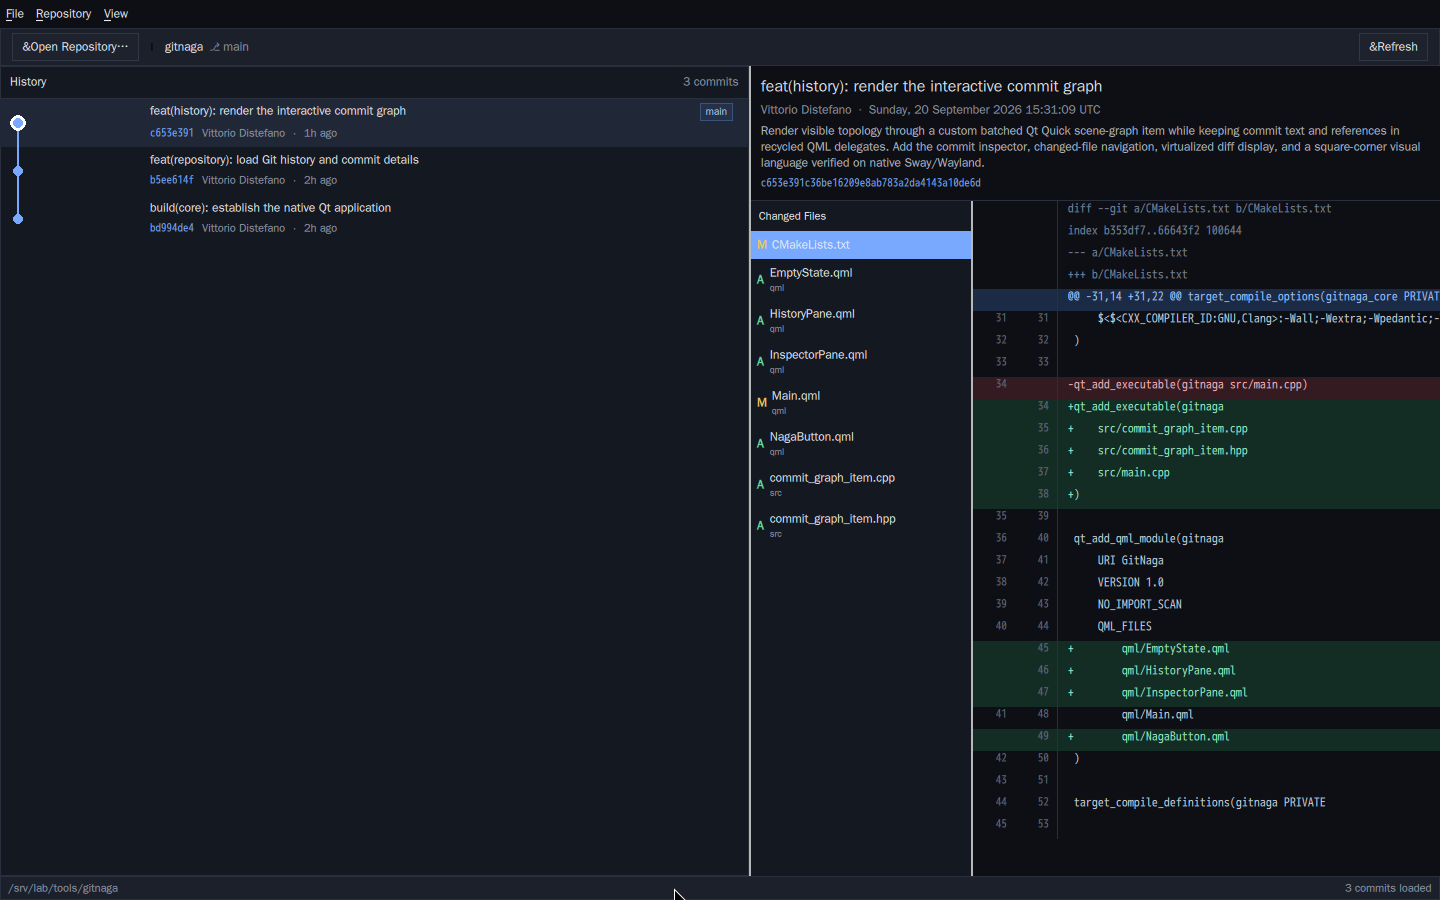
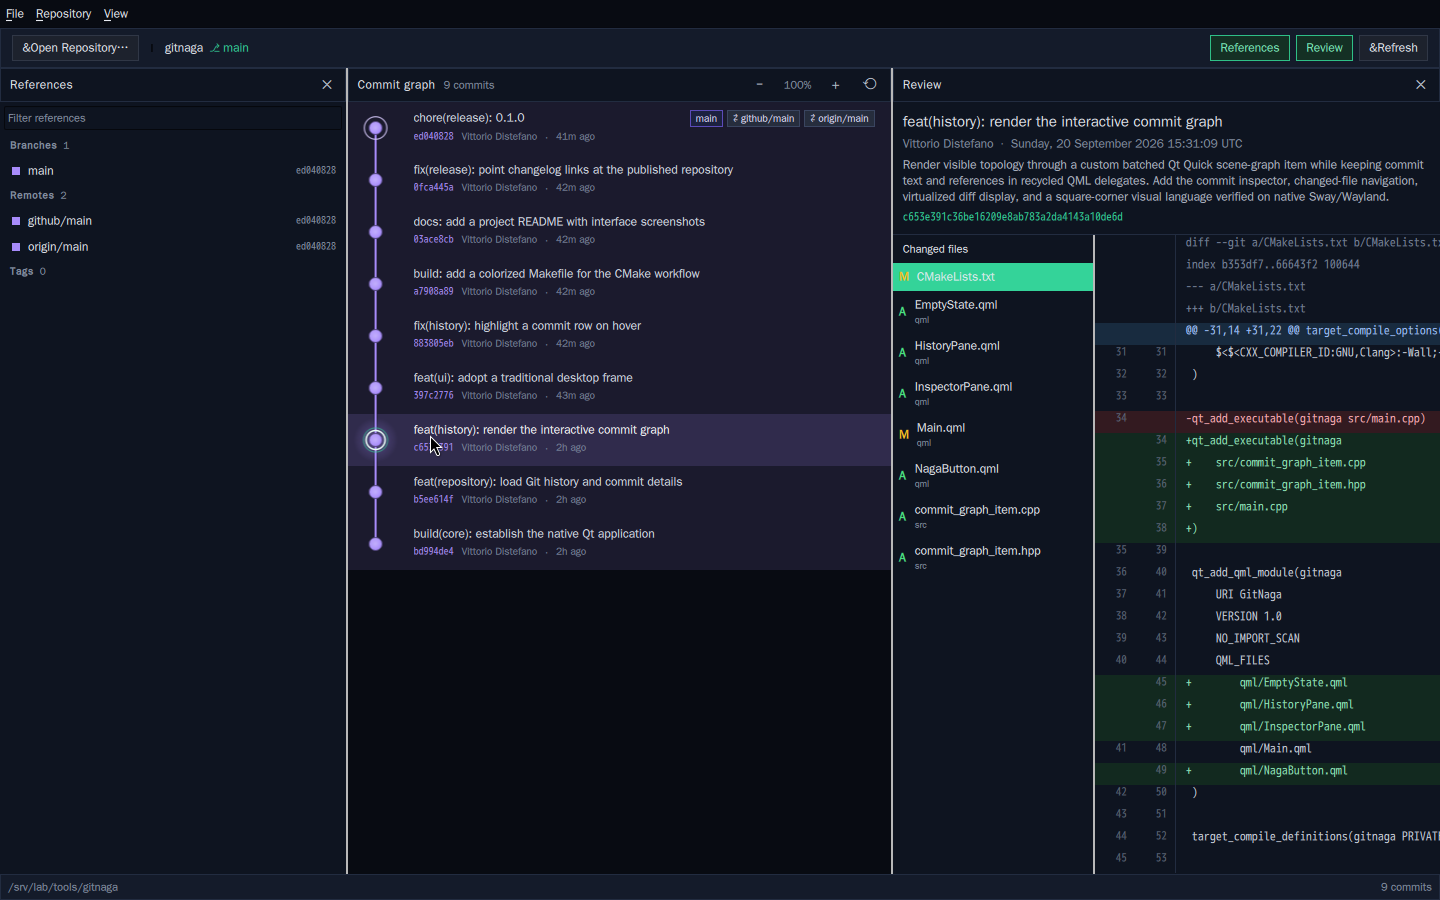
docs: document the graph-centric interface with new screenshots
Rewrite the README around the centre graph, closable references and review sidebars, and right-click Git operations, and refresh the captured screenshots including the operations menu and the empty state.

diff --git a/README.md b/README.md
@@ -1,31 +1,45 @@
 # GitNaga
 
 <p align="center">
-  <img src="docs/history.png" alt="GitNaga showing a commit history with the commit graph, changed files, and a colored diff" width="920">
+  <img src="docs/history.png" alt="GitNaga showing a reference sidebar, the commit graph in the centre with a selected commit, and a review sidebar with the changed files and a coloured diff" width="920">
 </p>
 
-A native Linux Git history and diff viewer built with C++23 and Qt 6 QML. GitNaga
-draws the commit graph with its own Qt Quick scene-graph item, lists commits and
-refs in dense recycled delegates, and renders per-file diffs with syntax-aware
-colors. It talks to Git directly and needs no daemon, no library wrapper, no
-account, and no telemetry.
+A native Linux Git history and diff viewer built with C++23 and Qt 6 QML. The
+commit graph sits in the centre with its own branch colour, the references and
+review live in closable sidebars, and every Git action is one right-click away
+on the graph. It talks to Git directly and needs no daemon, no library wrapper,
+no account, and no telemetry.
 
 ## Highlights
 
-- **Real Git, no bindings.** History, refs, and diffs come from the `git`
-  executable, so GitNaga shows exactly what Git stores. Merge topology and
-  revision walks are read from machine-readable plumbing, not re-derived.
-- **A graph that scales.** The commit graph is a custom batched `QQuickItem`
-  that draws lanes in one scene-graph pass while text and ref labels live in
-  recycled QML delegates.
+- **Centre stage graph.** The graph is the main surface. Each row carries a
+  tint of its branch colour, commits are drawn as ringed nodes, merges get a
+  heavier marker, and the current branch tip is highlighted. It is painted with
+  Qt's anti-aliased vector painter, so curves and gradients stay crisp at any
+  zoom.
+- **Mouse first.** Hover to trace a row, click to select, drag to pan, wheel to
+  scroll, and Ctrl+wheel to zoom around the cursor. Toolbar and menu controls
+  mirror the same actions for the keyboard.
+- **Right-click Git operations.** Right-click any commit for checkout, branch
+  and tag creation, cherry-pick, merge, revert, reset (soft, mixed, hard),
+  rebase, branch deletion, and copy hash. Right-click empty graph space for a
+  refresh. Destructive actions ask for confirmation.
+- **References, not a duplicate list.** The left sidebar lists local branches,
+  remotes, and tags from the refs Git actually stores, with a filter box and a
+  context menu. The right sidebar is the review: metadata, changed files, and
+  the coloured diff.
+- **Closable, resizable panes.** Toggle the references and review sidebars from
+  the toolbar or View menu and the graph takes the full window. Every pane is a
+  splitter you can drag.
 - **Responsive by construction.** Every Git command runs off the GUI thread.
   Stale results are dropped by generation counter, and `.git` metadata is
   watched so the view refreshes when the repository changes underneath it.
-- **A desktop frame, not a web page.** Menu bar, compact toolbar, split panes,
-  dense lists, keyboard actions, and a status bar. The palette is dark navy and
-  every corner is square.
 
 ## Screenshots
+
+<p align="center">
+  <img src="docs/graph-operations.png" alt="Right-clicking a commit in the graph opens a menu of Git operations, with destructive actions in red" width="920">
+</p>
 
 <p align="center">
   <img src="docs/empty-state.png" alt="GitNaga with no repository open, offering to open a local Git working tree or bare repository" width="920">
@@ -62,20 +76,29 @@ make ci-local   # configure, build, test, and lint in one pass
 ```
 
 The integration test runs against a real scratch repository and covers
-discovery, merge topology, commit inspection, and diff output. A source-size
-contract rejects any source, QML, or test file at or above 300 lines.
+discovery, merge topology, commit inspection, diff output, and the branch, tag,
+and reset operations. A graph test covers the lane geometry and palette, and a
+source-size contract rejects any source, QML, or test file at or above 300
+lines.
 
 ## Layout
 
 | Path | Contents |
 |------|----------|
-| `src/git_client.*` | Git discovery, history, inspection, and diff execution |
-| `src/repository_controller.*` | Asynchronous repository and selection state for QML |
-| `src/commit_graph_item.*` | Batched scene-graph renderer for the commit graph |
-| `src/*_model.*` | Commit, changed-file, and diff-line list models |
-| `qml/` | Application window, history pane, inspector, and shared controls |
-| `tests/` | Smoke test and real-Git integration test |
-| `cmake/` | Version surface and the source-size contract |
+| `src/git_client.*` | Git discovery, history, refs, and mutation execution |
+| `src/git_inspect.cpp` | Commit inspection and per-file diff loading |
+| `src/git_parse.*` | Lane assignment and unified-diff parsing |
+| `src/repository_controller.*` | Asynchronous repository, selection, and operation state |
+| `src/repository_operations.cpp` | Typed Git operations exposed to QML |
+| `src/repository_references.cpp` | Branch, remote, and tag references for the sidebar |
+| `src/graph_geometry.*` | Lane layout, node, and edge-curve geometry |
+| `src/commit_graph_item.*` | Graph input, metrics, and model binding |
+| `src/commit_graph_paint.cpp` | Anti-aliased vector painting of the graph |
+| `qml/GraphPane.qml` | Centre graph surface with commit labels and zoom controls |
+| `qml/ReferencesPane.qml` | Closable references sidebar |
+| `qml/InspectorPane.qml` | Closable review sidebar |
+| `qml/CommitMenu.qml` | Right-click Git operations popup |
+| `tests/` | Real-Git integration test, graph geometry test, smoke test |
 
 ## License
 
